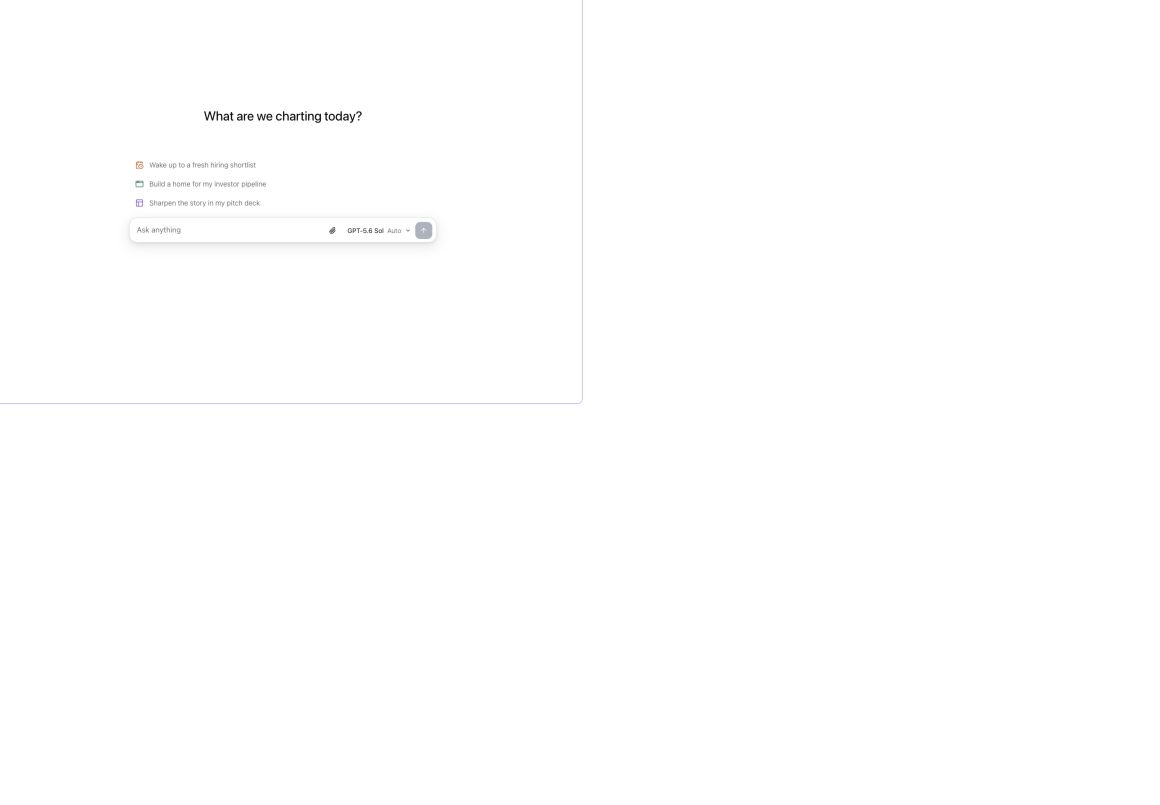
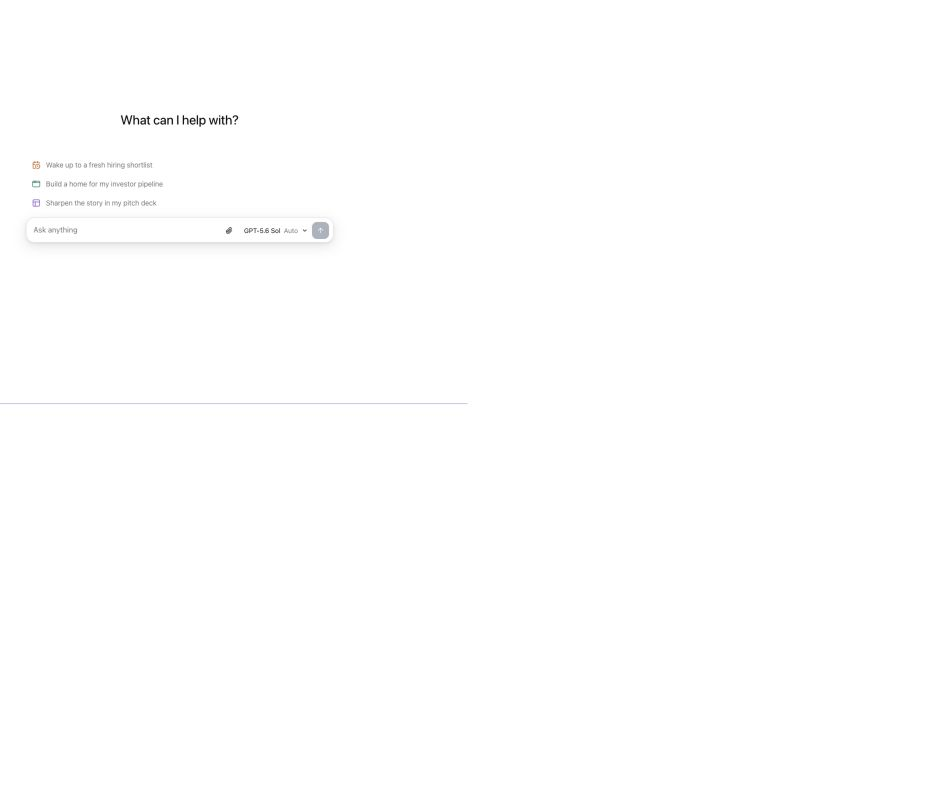
Fade suggestions smoothly and soften dark-mode text

Changed region(s): [[0.0312, 0.1863, 0.2183, 0.3106], [0.1247, 0.1242, 0.3118, 0.1553], [0.2806, 0.2795, 0.3742, 0.3106]]

diff --git a/plugins/web-ui/test/suggested-activities-ui.test.ts b/plugins/web-ui/test/suggested-activities-ui.test.ts
@@ -87,7 +87,7 @@ test("activity selection fills and persists an editable draft without sending or
     const agent = { state: agentState } as unknown as Agent;
     const draw = () =>
       render(
-        html`${!composer!.state.draft && !composer!.state.attachments.length ? suggestedActivities(appState.me.suggestedActivities, (activity: SuggestedActivity) => composer!.fillSuggestedPrompt(activity.prompt, agent)) : null}${composer!.composerForm(agent)}`,
+        html`${suggestedActivities(appState.me.suggestedActivities, (activity: SuggestedActivity) => composer!.fillSuggestedPrompt(activity.prompt, agent), Boolean(composer!.state.draft || composer!.state.attachments.length))}${composer!.composerForm(agent)}`,
         host,
       );
     const ctx = {
@@ -115,23 +115,32 @@ test("activity selection fills and persists an editable draft without sending or
     assert.equal(host.querySelectorAll(".suggested-activity").length, 3);
     assert.equal(host.querySelector(".suggested-activity-title")?.textContent, activities[0].title);
     assert.equal(host.querySelector("img"), null);
+    const region = host.querySelector(".suggested-activities")!;
     host.querySelector<HTMLButtonElement>(".suggested-activity")!.click();
     await new Promise<void>((resolve) => dom.window.requestAnimationFrame(() => resolve()));
     assert.equal(composer!.state.draft, "Draft request 0");
     assert.equal(storedDraft("web:tester:suggestions"), "Draft request 0");
     assert.equal(storedDraft(newChatDraftKey("tester")), "Draft request 0");
     assert.equal(document.activeElement, host.querySelector("textarea"));
-    assert.equal(host.querySelector(".suggested-activity"), null);
+    assert.equal(host.querySelector(".suggested-activities"), region);
+    assert.equal(region.getAttribute("aria-hidden"), "true");
+    assert.ok(region.hasAttribute("inert"));
+    assert.equal(host.querySelectorAll(".suggested-activity:enabled").length, 0);
     assert.deepEqual(agent.state.messages, []);
     composer!.fillSuggestedPrompt("replacement", agent);
     assert.equal(composer!.state.draft, "Draft request 0");
     const input = host.querySelector<HTMLTextAreaElement>("textarea")!;
     input.value = "";
     input.dispatchEvent(new dom.window.InputEvent("input", { bubbles: true }));
-    assert.equal(host.querySelectorAll(".suggested-activity").length, 3);
+    assert.equal(host.querySelectorAll(".suggested-activity:enabled").length, 3);
+    assert.equal(region.getAttribute("aria-hidden"), "false");
+    assert.equal(region.hasAttribute("inert"), false);
     input.value = "My own draft";
     input.dispatchEvent(new dom.window.InputEvent("input", { bubbles: true }));
-    assert.equal(host.querySelector(".suggested-activity"), null);
+    assert.equal(host.querySelector(".suggested-activities"), region);
+    assert.equal(region.getAttribute("aria-hidden"), "true");
+    assert.ok(region.hasAttribute("inert"));
+    assert.equal(host.querySelectorAll(".suggested-activity:enabled").length, 0);
     assert.equal(storedDraft(newChatDraftKey("tester")), "My own draft");
     composer!.state.draft = "";
     composer!.state.processingFiles = true;

diff --git a/plugins/web-ui/src/suggested-activities.ts b/plugins/web-ui/src/suggested-activities.ts
@@ -15,17 +15,30 @@ const icons = {
 export function suggestedActivities(
   activities: SuggestedActivity[] | undefined,
   onSelect: (activity: SuggestedActivity) => void,
+  collapsed = false,
 ): TemplateResult | typeof nothing {
   if (!activities?.length) return nothing;
-  return html`<section class="suggested-activities" aria-label="Suggested activities">
-    ${activities.slice(0, 3).map(
-      (activity) =>
-        html`<button type="button" class="suggested-activity" @click=${() => onSelect(activity)}>
-          <span class="suggested-activity-icon" data-icon=${activity.icon} aria-hidden="true"
-            >${icon(icons[activity.icon], 20)}</span
+  return html`<section
+    class="suggested-activities ${collapsed ? "is-collapsed" : ""}"
+    aria-label="Suggested activities"
+    aria-hidden=${collapsed ? "true" : "false"}
+    ?inert=${collapsed}
+  >
+    <div class="suggested-activities-list">
+      ${activities.slice(0, 3).map(
+        (activity) =>
+          html`<button
+            type="button"
+            class="suggested-activity"
+            ?disabled=${collapsed}
+            @click=${() => onSelect(activity)}
           >
-          <span class="suggested-activity-title">${activity.title}</span>
-        </button>`,
-    )}
+            <span class="suggested-activity-icon" data-icon=${activity.icon} aria-hidden="true"
+              >${icon(icons[activity.icon], 20)}</span
+            >
+            <span class="suggested-activity-title">${activity.title}</span>
+          </button>`,
+      )}
+    </div>
   </section>`;
 }

diff --git a/plugins/web-ui/src/shell.css b/plugins/web-ui/src/shell.css
@@ -2495,9 +2495,43 @@ a.chat-row-open {
   min-width: 0;
 }
 .suggested-activities {
+  display: grid;
+  grid-template-rows: 1fr;
   width: min(var(--content-w), calc(100% - 32px));
   margin: 0 auto 10px;
   padding: 0 2px;
+  opacity: 1;
+  visibility: visible;
+  transition:
+    grid-template-rows 220ms ease,
+    margin-bottom 220ms ease,
+    opacity 160ms ease,
+    visibility 0s;
+}
+.suggested-activities-list {
+  min-height: 0;
+  overflow: hidden;
+}
+.suggested-activities.is-collapsed {
+  grid-template-rows: 0fr;
+  margin-bottom: 0;
+  opacity: 0;
+  visibility: hidden;
+  pointer-events: none;
+  transition:
+    grid-template-rows 220ms ease,
+    margin-bottom 220ms ease,
+    opacity 140ms ease,
+    visibility 0s 220ms;
+}
+.empty-chat:has(.suggested-activities) .chat-cta {
+  transform: translateY(8px);
+}
+@media (prefers-reduced-motion: reduce) {
+  .suggested-activities,
+  .suggested-activities.is-collapsed {
+    transition: none;
+  }
 }
 .suggested-activity {
   display: flex;
@@ -2519,13 +2553,16 @@ a.chat-row-open {
 }
 .suggested-activity:focus-visible {
   outline: 2px solid var(--primary);
-  outline-offset: 2px;
+  outline-offset: -2px;
 }
 .suggested-activity-title {
   font-size: 14px;
   line-height: 1.4;
   letter-spacing: -0.1px;
   overflow-wrap: anywhere;
+}
+.dark .suggested-activity-title {
+  color: rgb(139 169 204 / 0.76);
 }
 .suggested-activity-icon {
   display: flex;

diff --git a/plugins/web-ui/src/chat.ts b/plugins/web-ui/src/chat.ts
@@ -1330,12 +1330,15 @@ export function createChatSurface(
               (!ctx.pane || tier === "full") &&
               !chatState.sessionId &&
               (chatState.scopeId === null || chatState.scopeId === `personal:${appState.me?.user}`) &&
-              !agent.state.isStreaming &&
-              !ctx.composer.state.processingFiles &&
-              !ctx.composer.state.draft &&
-              !ctx.composer.state.attachments.length
-                ? suggestedActivities(appState.me?.suggestedActivities, (activity) =>
-                    ctx.composer.fillSuggestedPrompt(activity.prompt, agent),
+              !agent.state.isStreaming
+                ? suggestedActivities(
+                    appState.me?.suggestedActivities,
+                    (activity) => ctx.composer.fillSuggestedPrompt(activity.prompt, agent),
+                    Boolean(
+                      ctx.composer.state.draft ||
+                      ctx.composer.state.attachments.length ||
+                      ctx.composer.state.processingFiles,
+                    ),
                   )
                 : nothing
             }

diff --git a/plugins/web-ui/README.md b/plugins/web-ui/README.md
@@ -68,9 +68,11 @@ No activity content is bundled into the public application.
 
 The first three entries appear above the empty personal-chat composer with colored
 icons, without a heading or expansion link. Selecting an entry fills and focuses
-an editable draft; it never submits a turn. Suggestions disappear while a draft
+an editable draft; it never submits a turn. Suggestions fade and collapse while a draft
 or attachment is present and do not appear in existing chats, shared contexts,
-or compact pane views. Drafts use the normal persistence path.
+or compact pane views. Collapsed suggestions are inert and hidden from assistive
+technology; reduced-motion preferences disable the transition. Dark mode uses
+subdued blue-gray suggestion text. Drafts use the normal persistence path.
 
 Each entry requires a unique lowercase alphanumeric/hyphen `id` (up to 64
 characters), `title` (up to 65 characters), `prompt` (up to 1,200 characters), and
